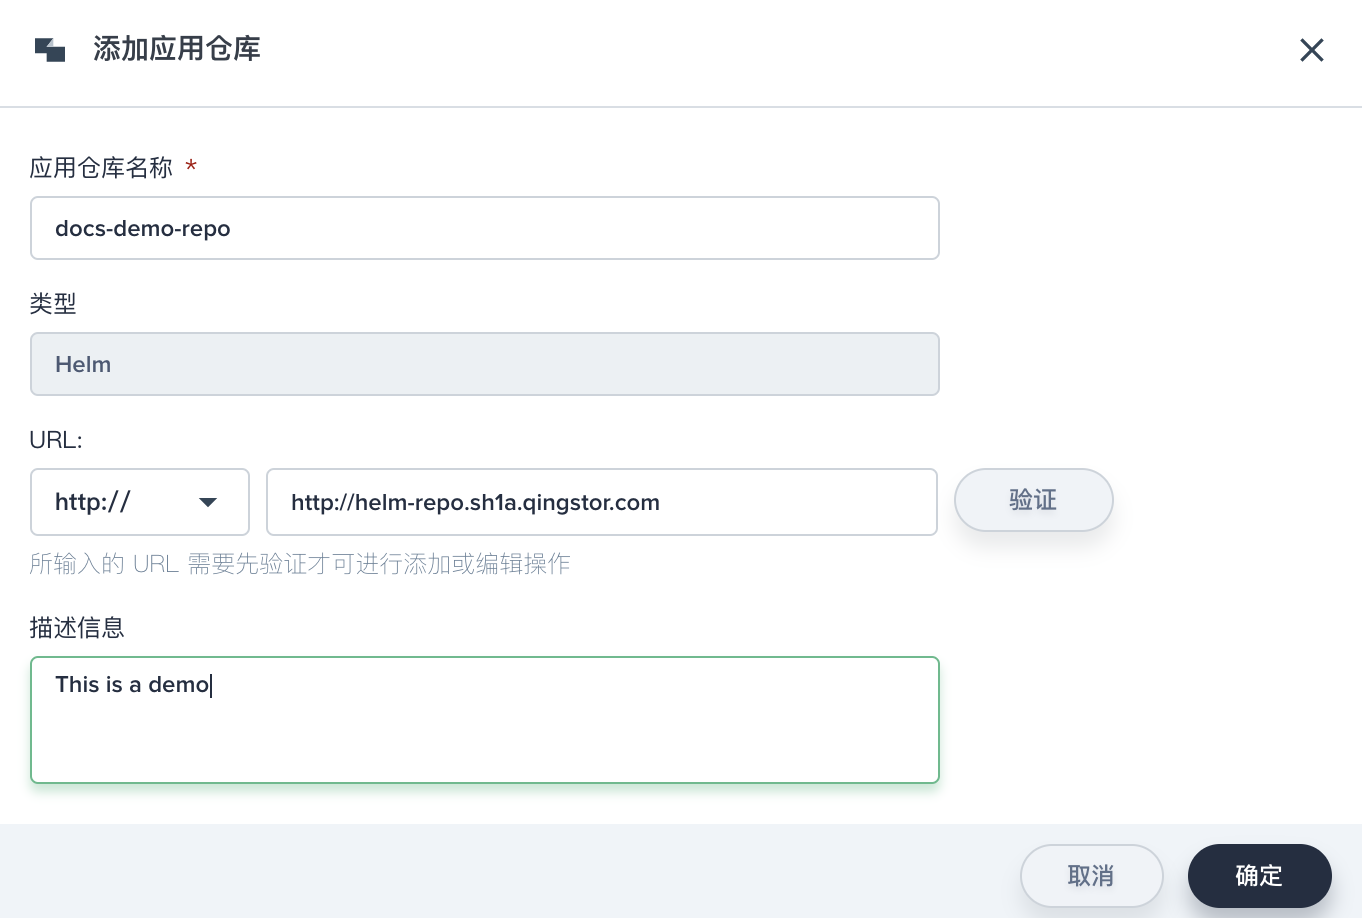
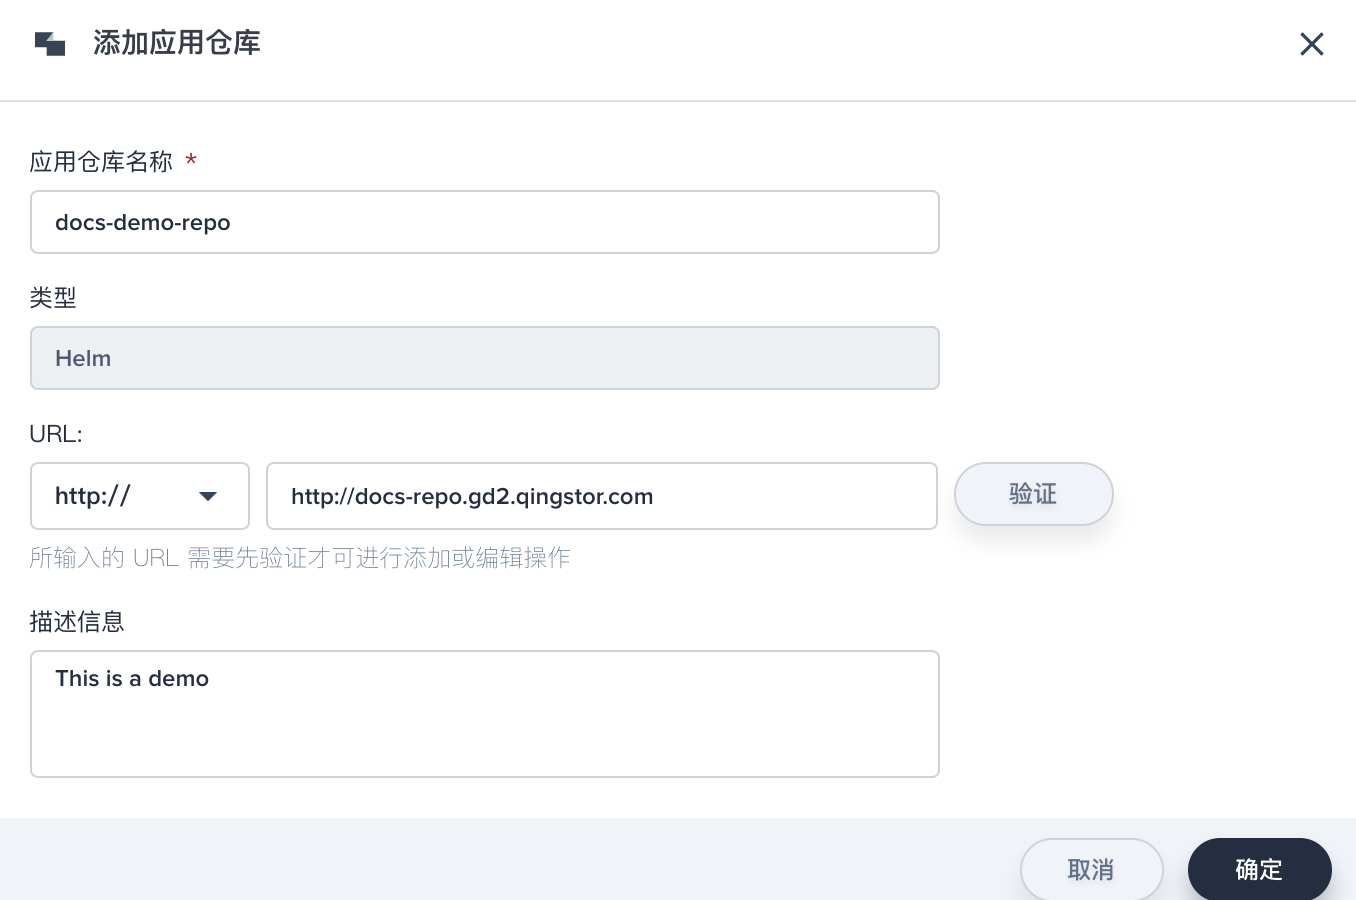
refine the demo2

diff --git a/content/advanced-v1.0.0/zh-CN/quick-start/one-click-deploy.md b/content/advanced-v1.0.0/zh-CN/quick-start/one-click-deploy.md
@@ -29,7 +29,7 @@ title: "示例四 - 一键部署应用"
 
 ![添加应用仓库](/add-app-repo.png)
 
-2、填写应用仓库的详细信息，如下添加一个 http 协议的示例仓库：`http://helm-repo.sh1a.qingstor.com`。
+2、填写应用仓库的详细信息，如下添加一个 http 协议的示例仓库：`http://docs-repo.gd2.qingstor.com	`，完成后点击 **确定**。
 
 ![应用仓库详细信息](/app-repo-basic.png)
 
@@ -43,11 +43,11 @@ title: "示例四 - 一键部署应用"
 
 ![](/nginx-details.png)
 
-2、点击 **部署应用**，填写应用的基本信息，应用名称可自定义，其中参数配置是读取的 `values.yaml` 文件中的默认值。选择预先创建的企业空间和项目，暂无需修改其它配置，点击部署。
+2、点击 **部署应用**，填写应用的基本信息，应用名称可自定义，其中参数配置是读取的 `values.yaml` 文件中的默认值。选择预先创建的企业空间和项目，暂无需修改其它配置，点击 **部署**。
 
 ![填写基本信息](/nginx-demo-basic.png)
 
-3、通过应用模板部署的应用可以在项目下的 **应用** 列表页面查看，此时将在当前项目的 **应用** 中创建一个新的 Nginx 应用，待镜像拉取和容器启动完毕，状态即可显示为 **已启用**。
+3、点击左侧菜单栏的 **应用**，通过应用模板部署的应用可以在项目下的 **应用** 列表页面查看，此时将在当前项目的 **应用** 中创建一个新的 Nginx 应用，待镜像拉取和容器启动完毕，状态即可显示为 **已启用**。
 
 ![查看应用](/nginx-app-demo.png)
 
@@ -55,23 +55,24 @@ title: "示例四 - 一键部署应用"
 
 ### 第三步：查看应用详情
 
-1、在应用列表点击 Nginx 应用，进入应用的资源状态页可以看到该应用是由服务和工作负载组成，并支持查看其环境变量和操作日志。
+1、在应用列表点击 Nginx 应用 (docs-demo)，进入应用的资源状态页可以看到该应用是由服务和工作负载组成，并支持查看其环境变量和操作日志。
 
 ![](/nginx-details-overview.png)
 
-2、点击 **工作负载**，可以查看该应用的部署 (Deployment) 详情页面，该页面可以更详细地查看 Pod 和容器的资源状态、监控，并支持编辑 Pod 的基本功能，如编辑配置模板、弹性伸缩、添加健康检查器等。
+2、点击 **工作负载** 中的 `docs-demo-nginx`，可以查看该应用的部署 (Deployment) 详情页面，该页面可以更详细地查看 Pod 和容器的资源状态、监控，并支持编辑 Pod 的基本功能，如编辑配置模板、弹性伸缩、添加健康检查器等。
 
 ![工作负载详情](/nginx-deployment-details.png)
 
-3、返回应用的详情页面，点击 **服务** 可以查看该应用的服务详情。若需要将该应用暴露给外网访问，可点击 **更多操作 → 编辑外网访问**。
+3、返回应用的详情页面，点击 **服务** 中的 `docs-demo-nginx` 可以查看该应用的服务详情。若需要将该应用暴露给外网访问，可点击 **更多操作 → 编辑外网访问**。
 
 ![编辑外网访问](/nginx-service-details.png)
 
 4、外网访问支持以下三种，本示例以 `NodePort` 访问方式为例，点击确定。
 
-- None: 只在集群内部访问服务，集群外部无法访问。
-- NodePort：使用 NodePort 方式可以通过访问工作节点对应的端口来访问服务
-- LoadBalancer：如果用 LoadBalancer 的方式暴露服务，需要有云服务厂商的 LoadBalancer 插件支持，比如 [QingCloud KubeSphere 托管服务](https://appcenter.qingcloud.com/apps/app-u0llx5j8/Kubernetes%20on%20QingCloud) 可以将公网 IP 地址的 ID 填入 Annotation 中，即可通过公网 IP 访问该服务。
+> - 说明：
+> -  None: 只在集群内部访问服务，集群外部无法访问。
+> - NodePort：使用 NodePort 方式可以通过访问工作节点对应的端口来访问服务
+> - LoadBalancer：如果用 LoadBalancer 的方式暴露服务，需要有云服务厂商的 LoadBalancer 插件支持，比如 [QingCloud KubeSphere 托管服务](https://appcenter.qingcloud.com/apps/app-u0llx5j8/Kubernetes%20on%20QingCloud) 可以将公网 IP 地址的 ID 填入 Annotation 中，即可通过公网 IP 访问该服务。
 
 ![选择访问方式](/select-nodeport.png)
 
@@ -81,9 +82,21 @@ title: "示例四 - 一键部署应用"
 
 ### 第四步：访问应用
 
-当以上步骤都顺利完成，此时在浏览器可以通过 **公网 IP : 30055** (`${EIP}:${NODEPORT}`) 在外网访问 Nginx 应用。
-
 > 注意：若需要在外网访问，可能需要绑定公网 EIP 并配置端口转发，若公网 EIP 有防火墙，请在防火墙添加规则放行对应的端口 (比如 30055)，保证外网流量可以通过该端口，外部才能够访问。
+
+例如，在 QingCloud 云平台上，如果使用了 VPC 网络，则需要将 KubeSphere 集群中的任意一台主机上暴露的节点端口 (NodePort) `30055` 在 VPC 网络中添加端口转发规则，然后在防火墙放行该端口。
+
+**添加端口转发规则**
+
+![添加端口转发规则](/demo4-vpc-nodeport-forward.png)
+
+**防火墙添加下行规则**
+
+![防火墙添加下行规则](/demo4-firewall-nodeport.png)
+
+### 访问 Nginx
+
+当以上步骤都顺利完成，此时在浏览器可以通过 **公网 IP : 30055** (`${EIP}:${NODEPORT}`) 在外网访问 Nginx 应用。
 
 ![访问应用](/access-nginx-app.png)
 
